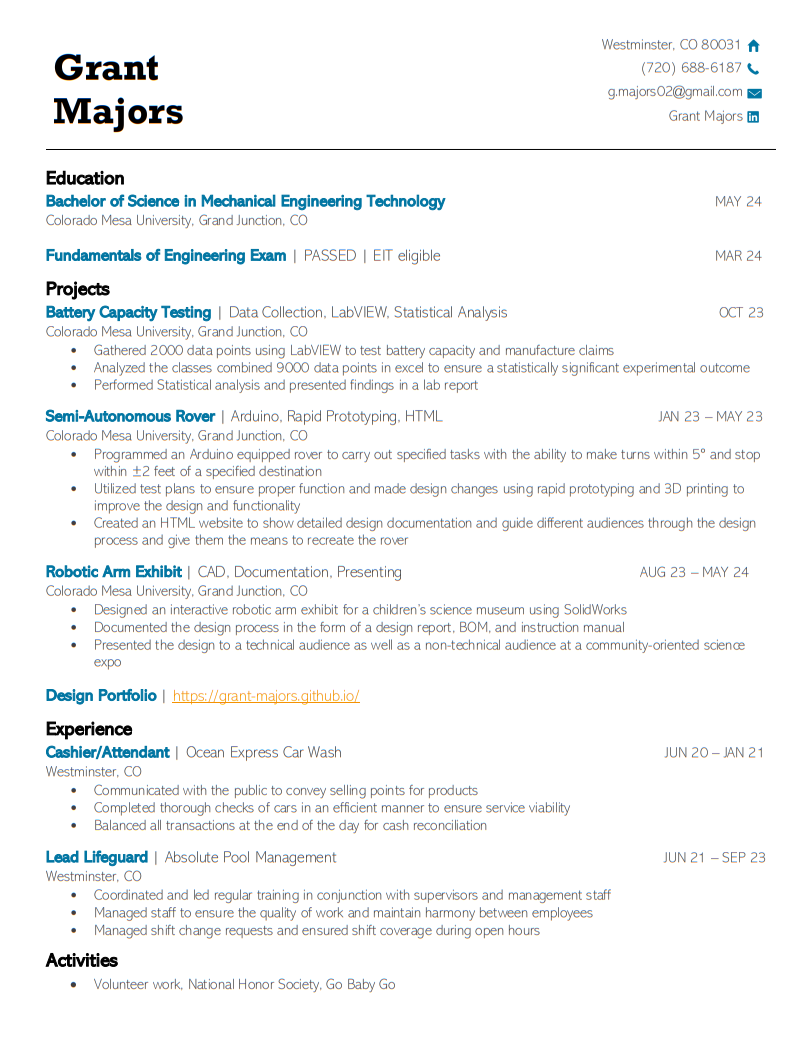
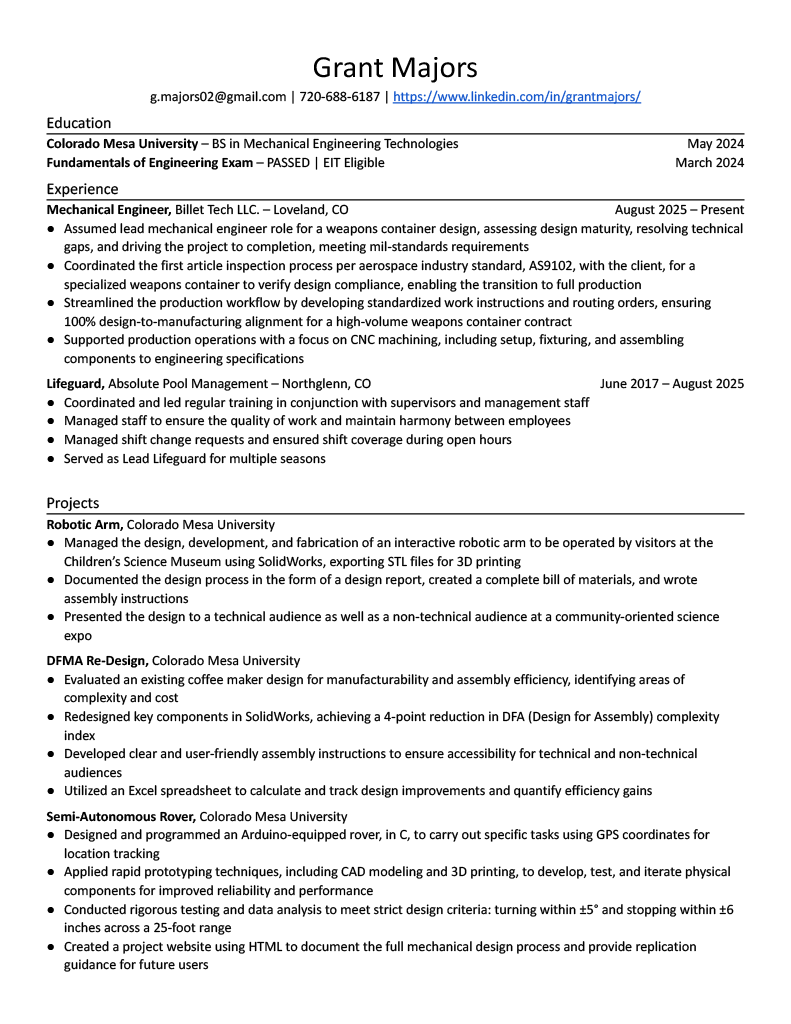
update for 2026 apps

Changed region(s): [[0.0607, 0.0312, 0.9406, 0.9688]]

diff --git a/index.html b/index.html
@@ -29,12 +29,11 @@
       <div>
         <h2 class="title">About Me</h2>
         <p>
-          I am a new Mechanical Engineering Technology graduate looking for
-          primarily design oriented roles. I love seeing the things that I
-          design come to life in the tangible world and improving those designs
-          to their maximum. In my free-time I enjoy working on my car, doing
-          Arduino and ESP32 based projects, and a rotation of various other
-          hobbies!
+          I am a early career Mechanical Engineer looking for primarily design
+          oriented roles. I love seeing the things that I design come to life in
+          the tangible world and improving those designs to their maximum. In my
+          free-time I enjoy working on my car, doing Arduino and ESP32 based
+          projects, and a rotation of various other hobbies!
         </p>
       </div>
     </div>
